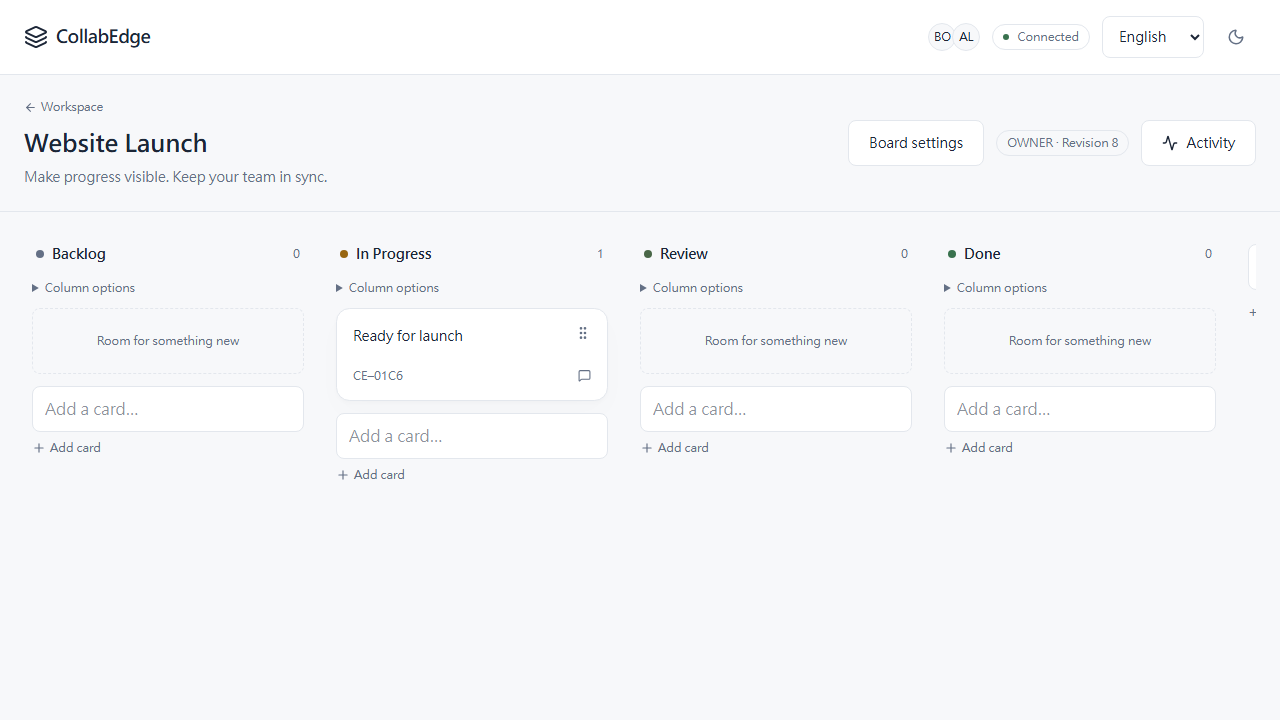
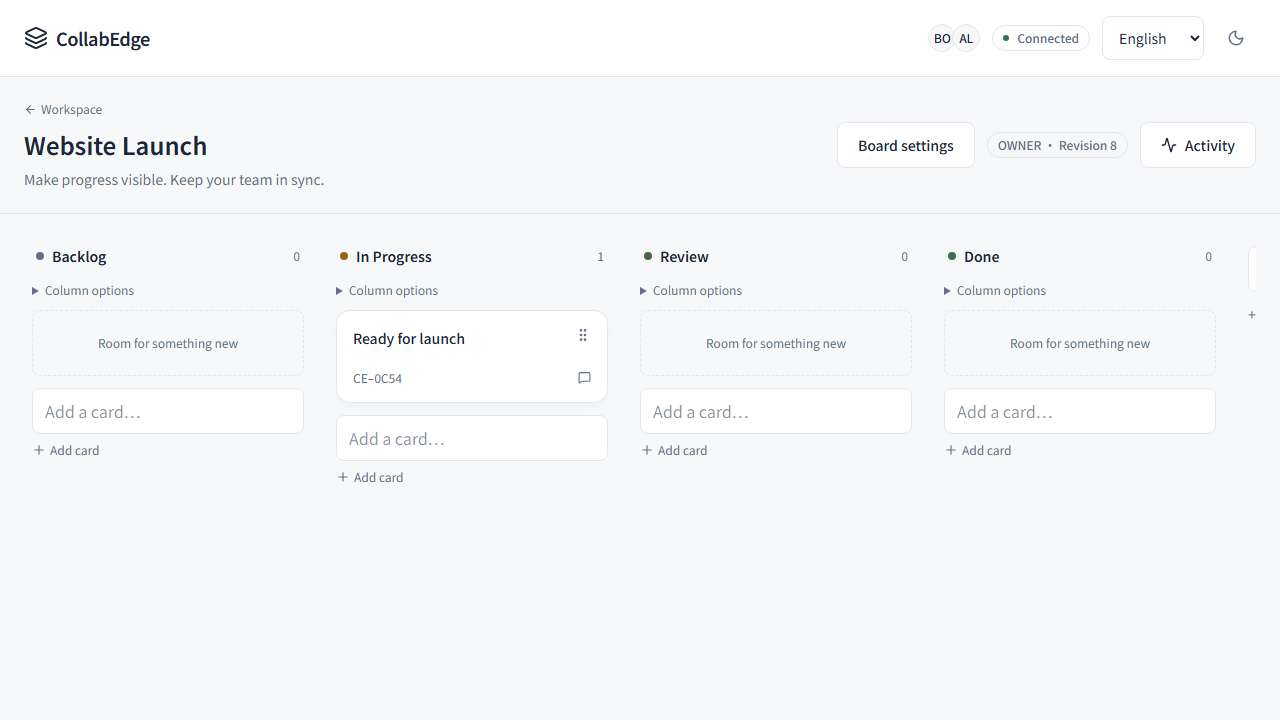
docs: document Google font sources and refresh UI previews

diff --git a/README.md b/README.md
@@ -28,6 +28,7 @@ Realtime collaboration is more than broadcasting a new card title. Two people ca
 - Private, authorized R2 attachments with MIME/signature validation and bounded uploads; enabled locally, gated in production.
 - Persistent board activity, light/dark themes, responsive scrolling, keyboard controls and reduced-motion support.
 - English and Traditional Chinese interface, including persistent language selection, server-rendered locale, statuses, common errors, accessibility labels and dates. User-authored content stays unchanged.
+- Self-hosted Google Fonts Noto Sans TC across the website, with Unicode subsets loaded on demand. [Font source and license](public/fonts/README.md).
 - Hard server-side quotas for users, workspaces, boards, messages, mutations, events and attachments.
 - Alice and Bob demo sessions with a seeded **Acme Product Team / Website Launch** board.
 
